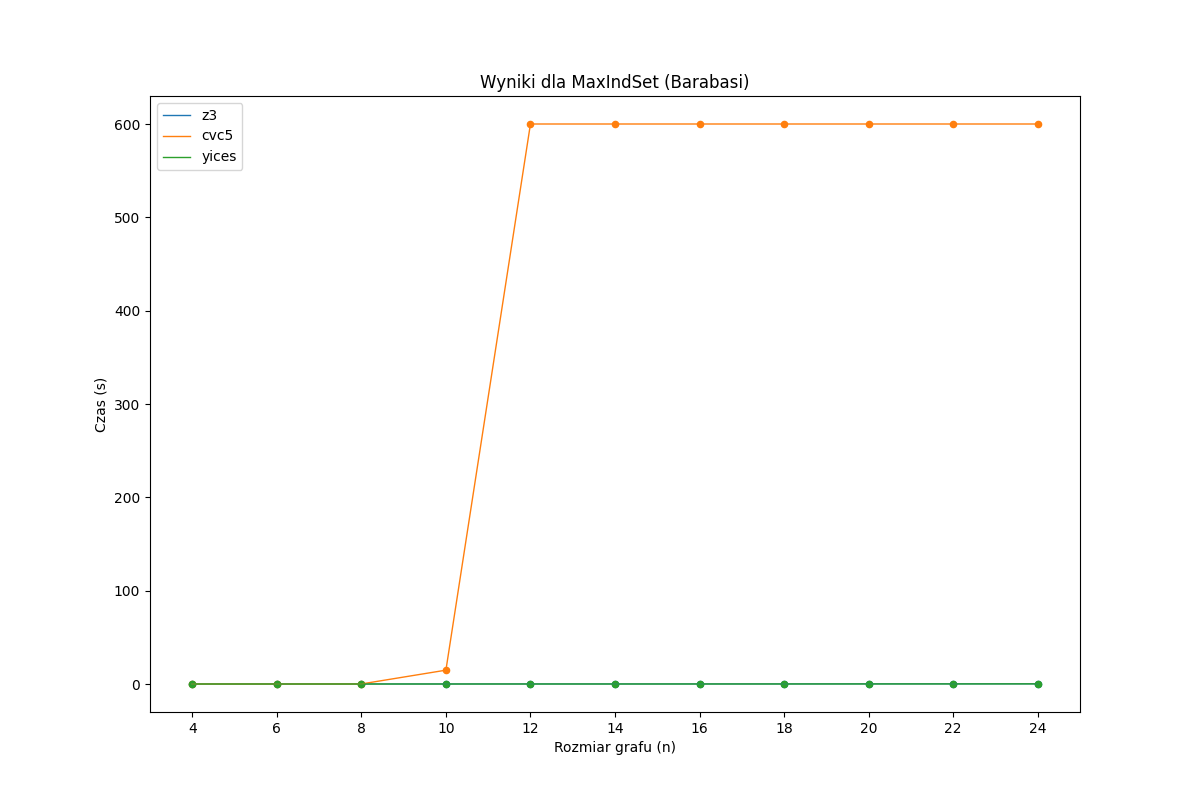
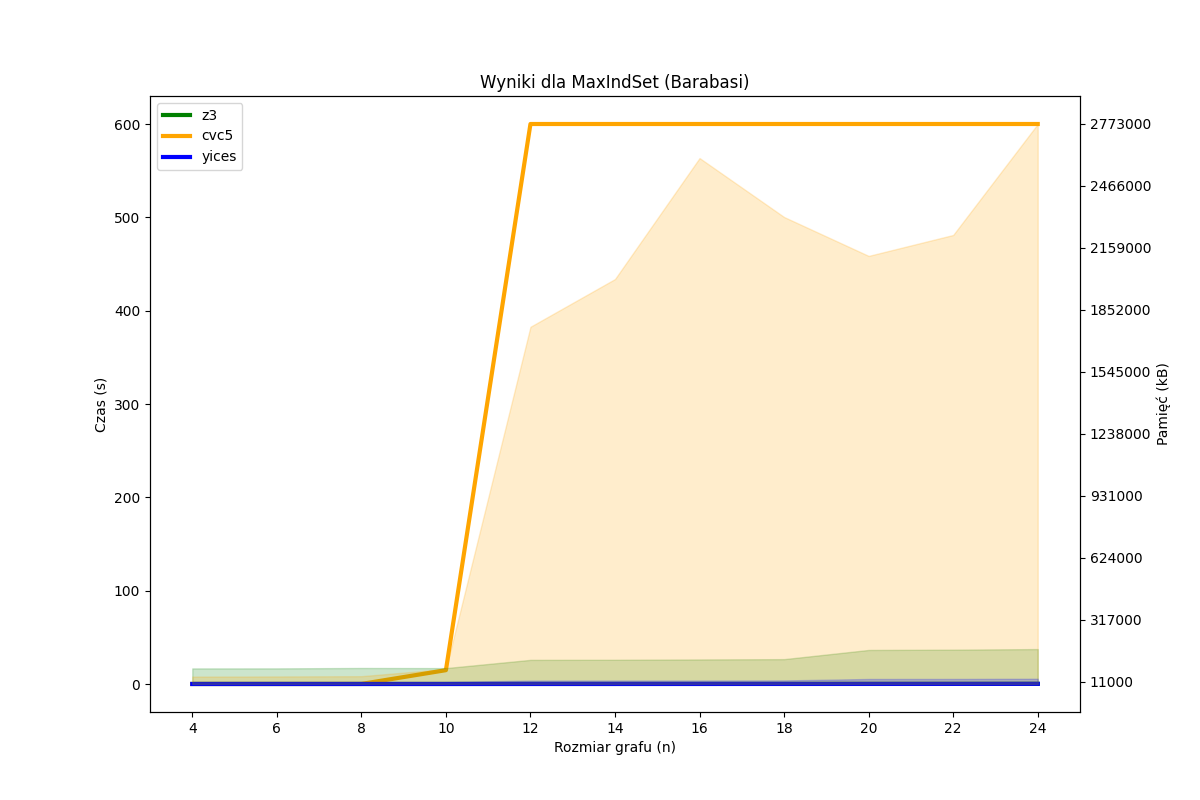
zmieniono wykresy, dodano pamięć

diff --git a/thesis/chapters/chapter5.tex b/thesis/chapters/chapter5.tex
@@ -142,6 +142,25 @@ Takie wnioski sugerują, że Yices może być szczególnie przydatny w przypadku
 
 \subsection{Wyniki dla Problemu kolorowania grafu}
 
+\begin{figure}[htbp]
+	\centering
+	\begin{minipage}{\textwidth}
+		\includegraphics[width=\textwidth]{./figures/6-barabasi-plot.png}
+		\caption{Wyniki eksperymentów dla grafów typu Barabási-Alberta.}
+		\label{fig:6-barabasi-plot}
+	\end{minipage}
+\end{figure}
+
+
+\begin{figure}[htbp]
+	\centering
+	\begin{minipage}{\textwidth}
+%		\includegraphics[width=\textwidth]{./figures/6-erdos-renyi-plot.png}
+		\caption{Wyniki eksperymentów dla grafów typu Erdős-Rényi'ego.}
+		\label{fig:6-erdos-renyi-plot}
+	\end{minipage}
+\end{figure}
+
 \subsection{Wyniki dla Problemu Komiwojażera}
 
 \subsection{Wyniki dla Problemu sumy podzbioru}
